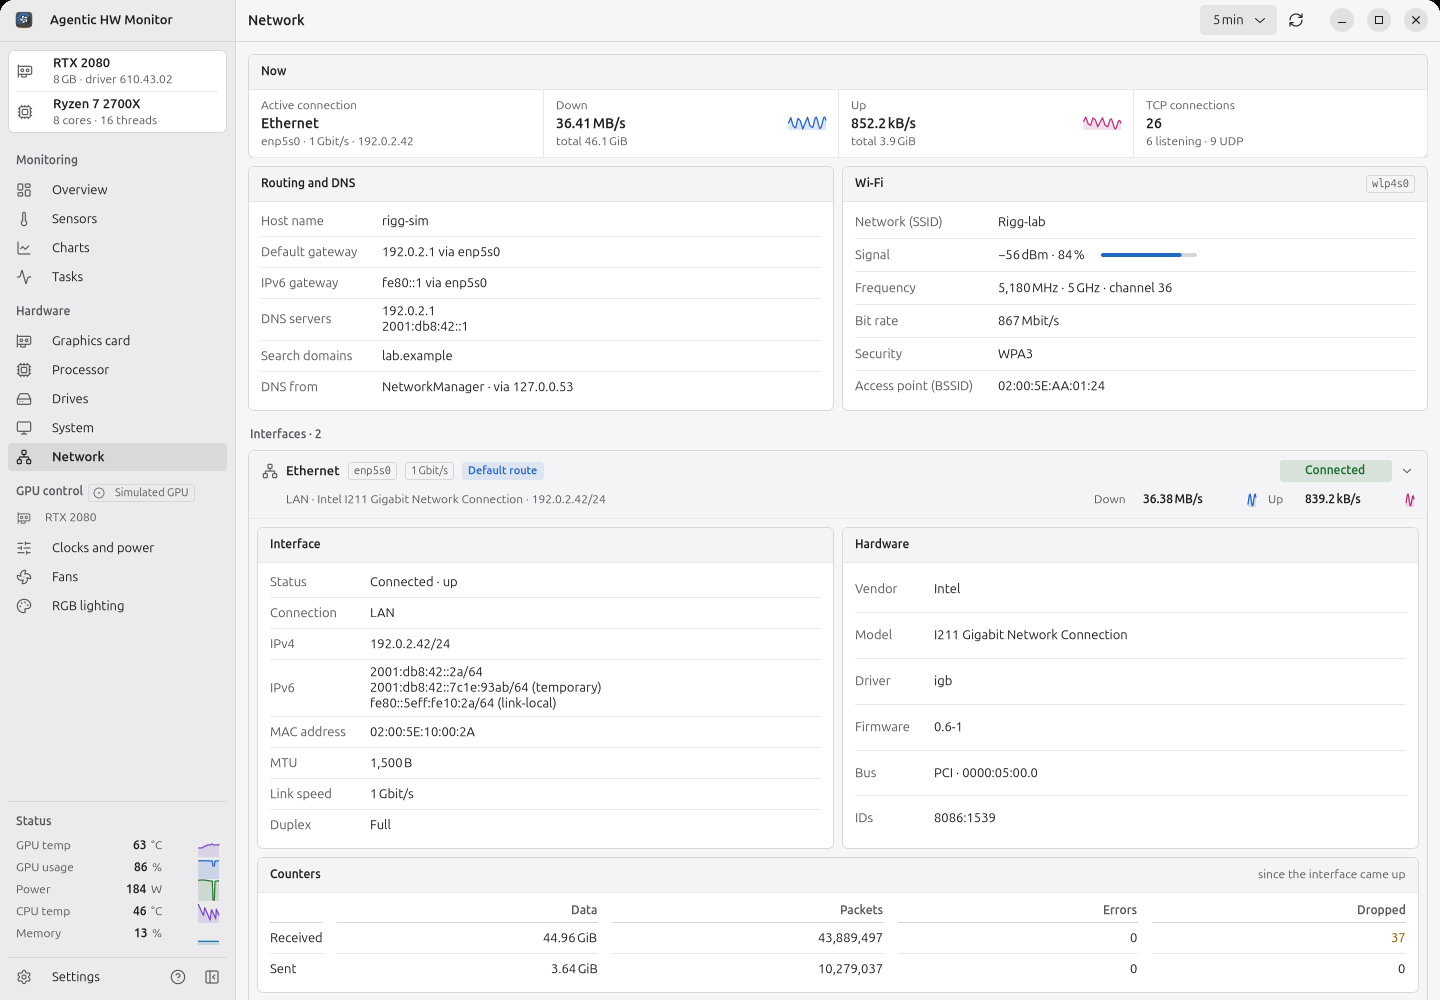
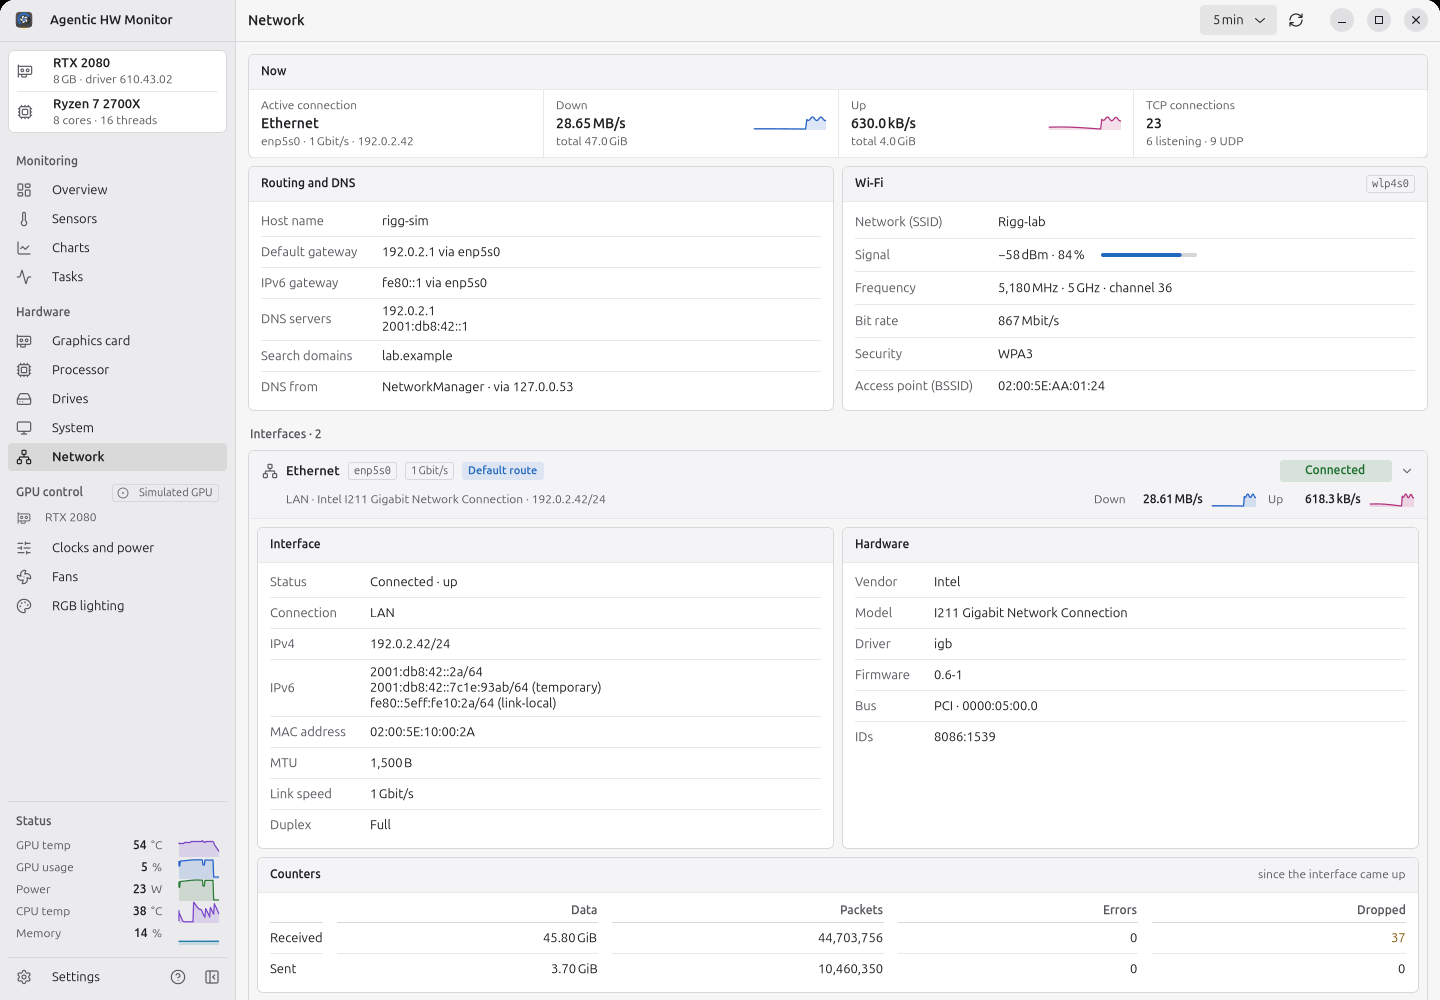
README-bilder etter 1.7.0: RGB-lys, Oppgaver og Nettverk
rgb-lighting.png er tatt på nytt med bilder.sh --plan rgb-flow (engelsk,
falsk-rgb.py, 1440 × 1000, lyst tema): kortlysbryter, fargevelger,
«Keep after the app closes» og en fast farge til prøve med Keep og
Roll back. tasks.png og network.png var også foreldet etter PR #40 og
#43 og er byttet. Alt-teksten og RGB-raden i README beskriver det som
faktisk vises. Ingen ny appversjon.

diff --git a/docs/produksjon/LOGG.md b/docs/produksjon/LOGG.md
@@ -1020,3 +1020,7 @@ Ingen GPU-/RGB-/I2C-skriving på verten.
 ## 24. november 2026 – Claude Code: 1.7.0 · bygg 33 (forhåndsutgivelse)
 
 Utgivelsen samler PR #32, #34, #37, #38, #39, #40, #43, #45 og #47 (nytt visningsnavn, svensk, Nettverk, Oppgaver, temperaturakser, layout, GPU-aktivering uten å røre en uavklart RGB-økt, RGB-oppgradering med ett passord, kortlysbryter, fargevelger, «Av» som holder, varig farge/«Av» og `rgb-av-prove.py`). Før utgivelsen er grenseetikettene under gliderne på Klokker og effekt rettet: effektgrensen manglet maks og minnejusteringen min ved 1024 px, fordi `Slider` skjulte en ende når «standard …» ville truffet den. `place_ticks` flytter nå standard inn mellom endene, og `share_ticks` gir radene samme form (`TICK_LEVELS`: enhet på alle, enhet bare ved standard, standard som bare verdien) ut fra den smaleste synlige glideren. Et første forsøk med høyere minstebredde ble forkastet: det holdt vinduet på 658–680 px i stedet for 640 og forskjøv tallfeltene mellom radene. Sett i `bilder.sh --plan revisjon` (Klokker og effekt og Vifter, nb og en, 640/1024/1280 px, skrift 100 og 116): funnlista er lik den før endringen. `docs/images/clocks-power.png` er tatt på nytt med `--plan readme` (engelsk, simulerte data). `MIN_COMPATIBLE_BUILD` står på 32 (NVML-delen av hjelperen er uendret siden 1.6.0), og RGB-minimumet står på 29 (eldre RGB-hjelpere avgjøres etter egenskaper, PR #47). Releasen er merket som forhåndsutgivelse til brukeren har prøvd den på kortet. Ingen GPU-/RGB-/I2C-skriving, ingen sudo, og ingenting er installert på brukerens maskin.
+
+## 24. november 2026 – Claude Code: README-bilder etter 1.7.0
+
+Ren dokumentasjonsendring, ingen ny appversjon. `docs/images/rgb-lighting.png` var tatt før PR #45 og #47 og manglet kortlysbryteren, fargevelgerruten og «Keep after the app closes». Bildet er tatt på nytt med 1.7.0-binærene (bygg 33) gjennom `bilder.sh --plan rgb-flow` med `RIGG_BILDER_SPRAK=en`: ekte GTK-klikk mot den private, merkede falske RGB-arbeideren `falsk-rgb.py`, 1440 × 1000 px, lyst tema. Bildet er `rgb-flow-pending-sim.png` (fast farge til prøve med Keep og Roll back, merket «Simulated RGB data · Trial active»). En sammenligning med `--plan readme` og `readme-oppgaver` viste at også `tasks.png` (detaljfeltet har fått forklaringslinjen for privat minne, USS og PSS, PR #43) og `network.png` (maskinvarekortet strekker ikke lenger radene, PR #40) var foreldet; begge er byttet. `overview`, `overview-dark`, `fans` og `clocks-power` har samme utforming som i 1.7.0 og er beholdt. PNG-ene er kvantisert med libimagequant (68–78 KiB). README: alt-teksten for RGB-bildet og RGB-raden i funksjonstabellen beskriver nå bryteren, fargevelgeren, «Av» som holder og valget om å beholde lyset etter at appen lukkes. `bilder.sh --plan readme-oppgaver` melder kuttet brukernavn «systemd-resolve» i en rad utenfor det synlige utsnittet; selve bildet er kontrollert. Ingen GPU-/RGB-/I2C-skriving, ingen sudo, og vertens hjelpermapper er ikke brukt.

diff --git a/README.md b/README.md
@@ -38,7 +38,7 @@ It is meant for people who use Linux on a desktop PC and want what tools like MS
 | Network | Active connection, current and total traffic, routing and DNS, Wi-Fi signal, frequency and security, one expandable row per interface with addresses, hardware, counters and a graph, and listening ports |
 | System | Motherboard, BIOS, memory, operating system and controllers |
 | Clocks & Power, Fans | Opt-in NVML control of power limit, core and memory clock offsets, temperature target and fans: Basic and Advanced views, fan curves with hysteresis, drafts and profiles |
-| RGB lighting | Card-bound lighting control for the Palit GeForce RTX 2080 Super JetStream: static colour, off, brightness, breathing, rainbow and colour cycle, with a 2D or 3D card that previews the choice |
+| RGB lighting | Card-bound lighting control for the Palit GeForce RTX 2080 Super JetStream: a card lighting switch, static colour with a colour picker, breathing, rainbow and colour cycle, and brightness. Off holds while the app runs, and a static colour or off can be kept after the app closes. A 2D or 3D card previews the choice |
 
 Readings come from `/proc`, sysfs/DMI, hwmon, UDisks2, NetworkManager and NVIDIA NVML. What is available depends on your hardware and drivers. Missing or unsupported values are shown as unknown, never estimated.
 
@@ -61,7 +61,7 @@ All screenshots are real GTK 4 windows from private test sessions with **simulat
   </tr>
   <tr><th>RGB lighting</th><th>Overview, dark theme</th></tr>
   <tr>
-    <td><a href="docs/images/rgb-lighting.png"><img src="docs/images/rgb-lighting.png" alt="RGB lighting page with the 2D card preview, mode, colour and brightness controls, and a pending test with Keep and Roll back (simulated RGB data)" width="430"></a></td>
+    <td><a href="docs/images/rgb-lighting.png"><img src="docs/images/rgb-lighting.png" alt="RGB lighting page with the 2D card preview, the card lighting switch, mode, colour picker and brightness, the Keep after the app closes option, and a pending static colour test with Keep and Roll back (simulated RGB data)" width="430"></a></td>
     <td><a href="docs/images/overview-dark.png"><img src="docs/images/overview-dark.png" alt="Overview page in the dark theme (simulated data)" width="430"></a></td>
   </tr>
 </table>
